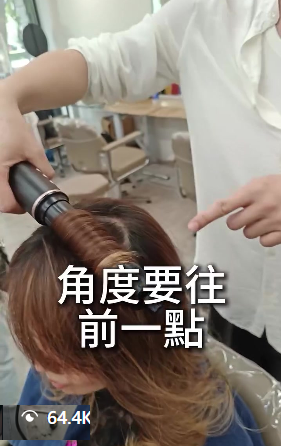
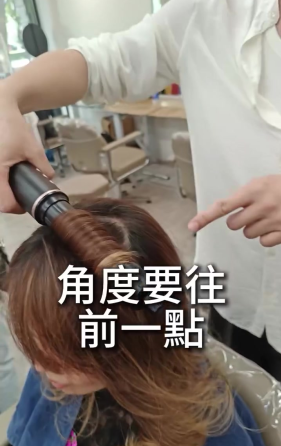
Give every image slot its own face-free frame (FB/IG reels); drop duplicate view badge
Claude-Session: https://claude.ai/code/session_014hD6ReE1xaVPzaRQdd8LkG

diff --git a/index.html b/index.html
@@ -284,7 +284,7 @@ footer{margin-top:120px;padding:0 0 40px}
         </div>
         <ul class="msgs" aria-label="客戶影片底下的真實留言">
           <li class="msg new">
-            <div class="vid"><img src="hero-frame-04.jpg" alt="檜木桶業者的短影音"></div>
+            <div class="vid"><img src="wood-q1.jpg" alt="檜木桶業者的短影音"></div>
             <div><div class="who"><b>台南的觀眾</b>檜木桶影片</div><p class="text">請問浴室空間 170×90，可以選多大的<span class="nw">檜木桶</span>？<span class="nw">大約多少錢</span>？</p></div>
             <span class="dot" aria-label="未讀"></span>
           </li>
@@ -294,12 +294,12 @@ footer{margin-top:120px;padding:0 0 40px}
             <span class="dot" aria-label="未讀"></span>
           </li>
           <li class="msg">
-            <div class="vid"><img src="case-wood-reel.png" alt="檜木桶業者介紹貼皮木桶的短影音"></div>
+            <div class="vid"><img src="wood-q2.jpg" alt="檜木桶業者介紹貼皮木桶的短影音"></div>
             <div><div class="who"><b>觀眾</b>檜木桶影片</div><p class="text">木片沒有黏起來不會漏水嗎？有保固嗎？</p></div>
             <span class="dot"></span>
           </li>
           <li class="msg">
-            <div class="vid"><img src="hero-frame-04.jpg" alt="檜木桶業者的短影音"></div>
+            <div class="vid"><img src="wood-q3.jpg" alt="檜木桶業者的短影音"></div>
             <div><div class="who"><b>觀眾</b>檜木桶影片</div><p class="text">鐵線不會生鏽嗎？</p></div>
             <span class="dot"></span>
           </li>
@@ -341,7 +341,7 @@ footer{margin-top:120px;padding:0 0 40px}
                 <span class="t">你手上的素材</span>
                 <div class="grid">
                   <img src="hero-frame-05.jpg" alt=""><img src="hero-frame-01.jpg" alt="">
-                  <img src="case-wood-reel.png" alt=""><img src="hero-frame-04.jpg" alt="">
+                  <img src="wood-grid.jpg" alt=""><img src="wood-grid2.jpg" alt="">
                 </div>
               </div>
               <div class="script js-script">
@@ -581,7 +581,7 @@ footer{margin-top:120px;padding:0 0 40px}
       const desktop = window.matchMedia('(min-width: 901px)').matches;
       const li = document.createElement('li');
       li.className = 'msg new';
-      li.innerHTML = '<div class="vid"><img src="case-geese-reel.png" alt="美髮店家的吹風機短影音"></div><div><div class="who"><b>美髮店家</b>吹風機影片</div><p class="text">想了解</p></div><span class="dot" aria-label="未讀"></span>';
+      li.innerHTML = '<div class="vid"><img src="case-geese-reel2.jpg" alt="美髮店家的吹風機短影音"></div><div><div class="who"><b>美髮店家</b>吹風機影片</div><p class="text">想了解</p></div><span class="dot" aria-label="未讀"></span>';
       if (desktop) {
         gsap.to('.msg', { opacity: 0, y: 6, duration: .2, ease: 'power2.in', onComplete: () => {
           list.prepend(li); list.lastElementChild.remove();
